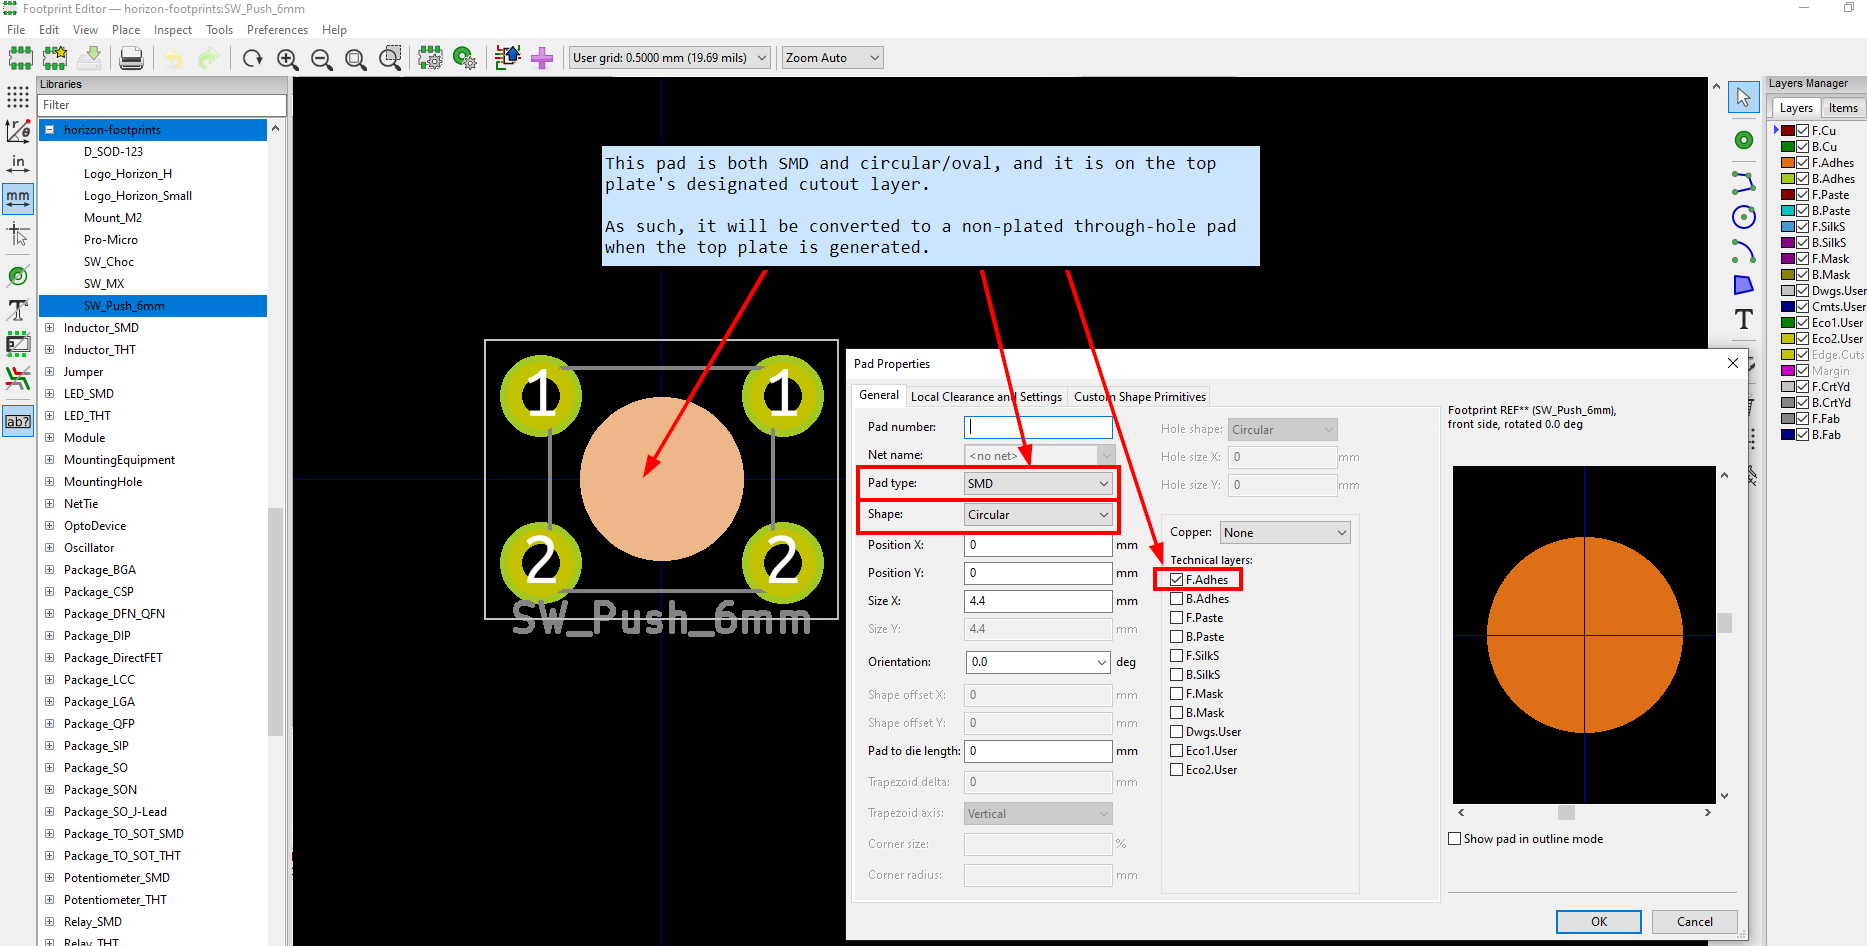
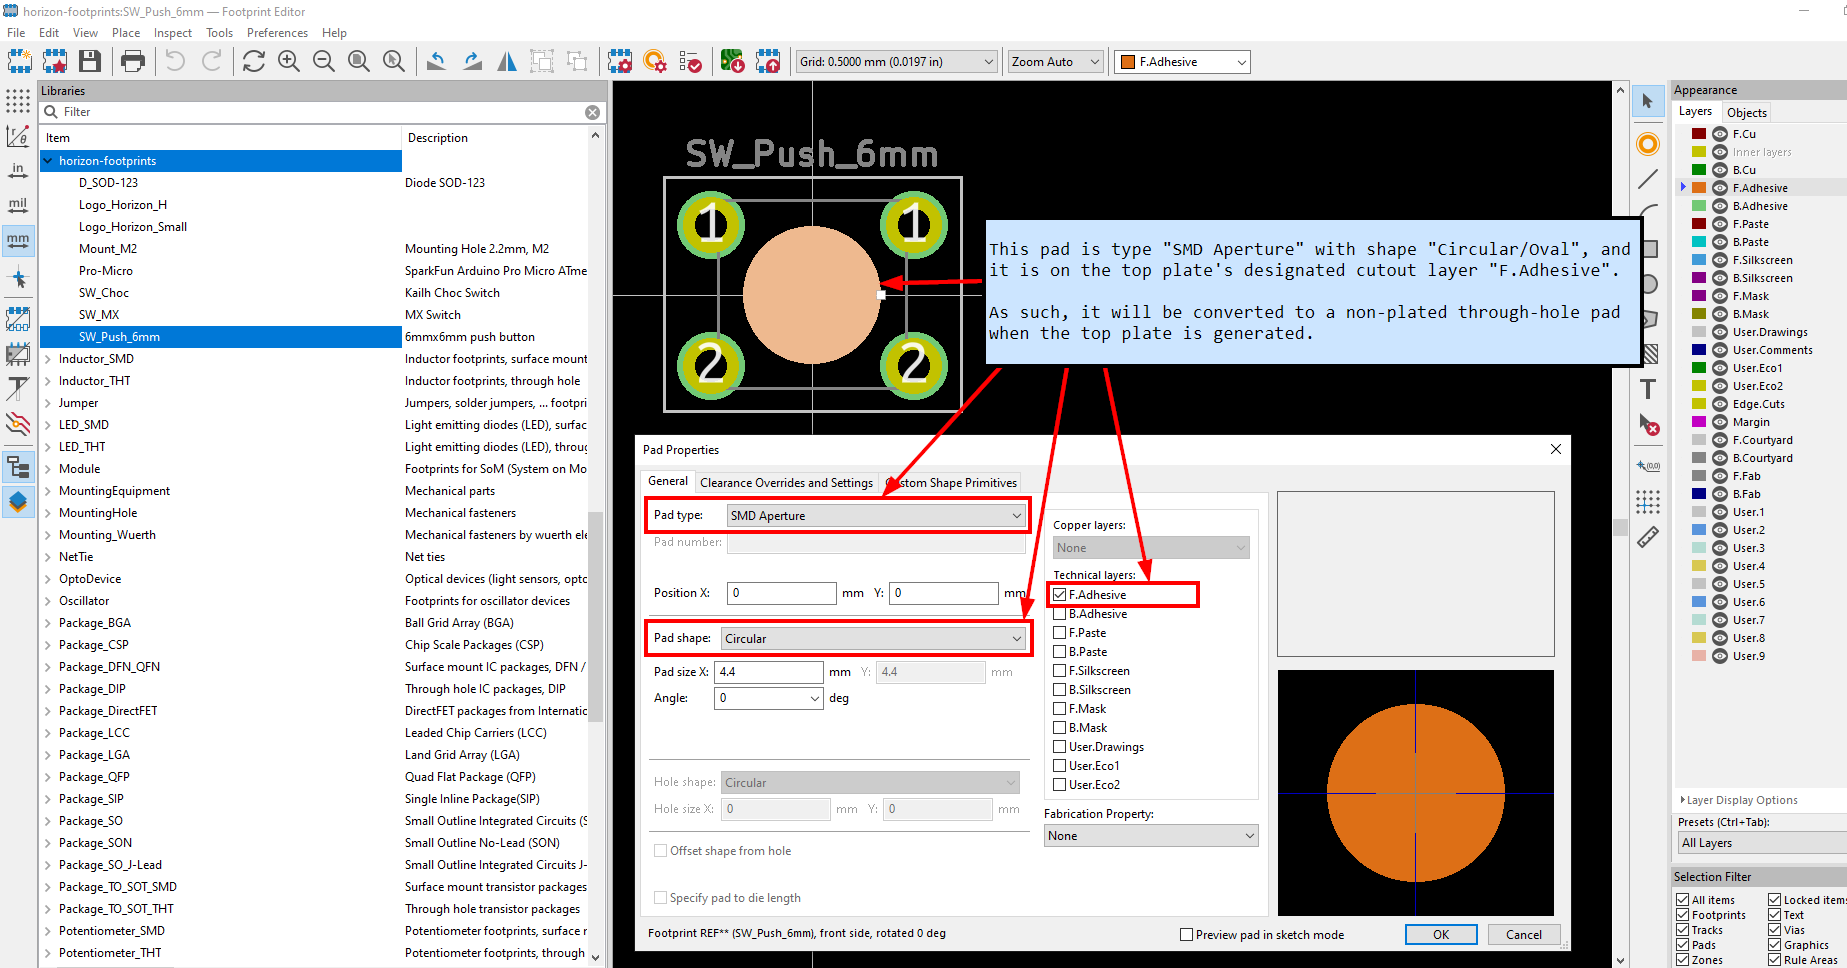
Update KiCad project notes to reflect KiCad 6 changes

diff --git a/README.md b/README.md
@@ -33,8 +33,8 @@ The bottom and top plates are generated via a custom KiCad 6 Python SWIG plugin 
 
 For the plugin to generate these plate boards, the PCB and its footprints use the following layer convention:
 
-* `F.Adhes` designates top plate holes and edge cuts.
-* `B.Adhes` designates bottom plate holes and edge cuts.
+* `F.Adhesive` designates top plate holes and edge cuts.
+* `B.Adhesive` designates bottom plate holes and edge cuts.
 
 When the board producer runs, these layers are used as follows:
 
@@ -42,9 +42,9 @@ When the board producer runs, these layers are used as follows:
     * Graphics on the plate's designated layer will be moved to `Edge.Cuts` when producing that plate.
     * As with all edge cuts, please make sure your graphics are non-overlapping closed shapes.
 * On footprints only:
-    * Pads of type "SMD" and shape "Circular/Oval" on the plate's designated layer will be converted to proper NPTH pads.
+    * Pads of type "SMD Aperture" and shape "Circular/Oval" on the plate's designated layer will be converted to proper NPTH pads.
     * Note only circular/oval shapes are supported for these pads, because they are the only available hole/drill shapes. If you need a fancy plate cutout shape on your footprint, then draw graphics lines on the designated layer.
-    * **IMPORTANT**: When adding pads solely for plate cutout purposes, set the pad to only use to the designated plate cutout layers - set all other technical layers blank. Make sure "Copper" is set to "None", otherwise the pad might add an unwanted copper region to your main board.
+    * **IMPORTANT**: When adding pads solely for plate cutout purposes, set the technical layer to just the designated plate cutout layers. Leave all other technical layers unchecked.
 
 ![Horizon KiCad plate edge cuts](images/horizon-kicad-plate-cuts.png)
 ![Horizon KiCad footprint plate holes](images/horizon-kicad-footprint-plate-holes.png)
